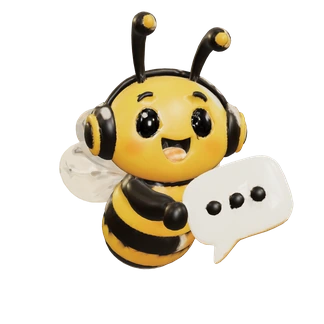
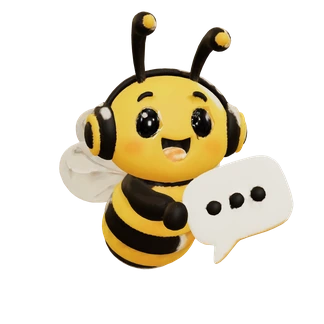
Buzz bee: no more blotches (head/antenna paint highlights were drawn as glass wings), clay-matte materials per the brief, softer normal map, tooltip 14px clear of the bee and behind it, stills rebuilt

diff --git a/buzz-bee3d.js b/buzz-bee3d.js
@@ -21,34 +21,34 @@ const CLAY_TEXTURE = '/buzz-bee-clay.webp?v=3';       // the original model's co
 export const BEE_LOOK = {
   render: {
     toneMapping: 'ACESFilmic',              // 'ACESFilmic' | 'AgX' | 'Neutral' | 'None'
-    exposure: 0.98,                         // ACES darkens and shifts colour a little: this, the light, and each material's mapGlow keep the bee's colours as they were
+    exposure: 0.9,                         // ACES darkens and shifts colour a little: this, the light, and each material's mapGlow keep the bee's colours as they were
     environment: 'studio',                  // the soft studio room that ships with three.js (RoomEnvironment), blurred like a studio HDRI
     environmentBlur: 0.04,
     environmentIntensity: 0.3,
-    anisotropy: 'max',                      // 'max' or a number: keeps the texture sharp when the bee turns
+    anisotropy: 8,                      // 'max' or a number: keeps the texture sharp when the bee turns
     keyLight: {color: 0xfff1d6, intensity: 1.0, position: [1.6, 2.4, 2.6]},
     rimLight: {color: 0xffe3a8, intensity: 0.45, position: [-2.2, 1.2, -2]},
     fill: {sky: 0xfffaf0, ground: 0xffdca0, intensity: 0.68},
-    normalScale: 0.6,
+    normalScale: 0.25,                      // a gentle bump only: a strong normal map speckled the antennae and headphones
   },
   fallback: {roughness: 0.78, clearcoat: 0, sheen: 0.6, transmission: 0},     // the matte clay look used only if bee_hq.glb cannot load and the original model is shown
   materials: {
     body: {                                  // head, headphones, body, arms, stripes, antennae
-      roughness: 0.35, metalness: 0, clearcoat: 1, clearcoatRoughness: 0.45,
-      sheen: 0.12, sheenRoughness: 0.5, sheenColor: 0xffc23a, envMapIntensity: 0.6, mapGlow: 0.3,
+      roughness: 0.62, metalness: 0, clearcoat: 0.15, clearcoatRoughness: 0.5,
+      sheen: 0.1, sheenRoughness: 0.55, sheenColor: 0xffc23a, envMapIntensity: 0.3, mapGlow: 0.42,
     },
     eyes: {                                  // glossy black with crisp white highlights
       roughness: 0.12, metalness: 0, clearcoat: 1, clearcoatRoughness: 0.03,
-      specularIntensity: 1, envMapIntensity: 1.2, mapGlow: 0,
+      specularIntensity: 1, envMapIntensity: 0.8, mapGlow: 0,
     },
     wings: {                                 // see-through, a little thick, glassy
-      roughness: 0.22, metalness: 0, clearcoat: 0.6, clearcoatRoughness: 0.15,
-      transmission: 0.55, thickness: 0.18, ior: 1.4, attenuationColor: 0xfff4dc, attenuationDistance: 0.6,
-      sheen: 0.05, sheenColor: 0xffffff, sheenRoughness: 0.4, envMapIntensity: 1.0, mapGlow: 0.25, doubleSided: true,
+      roughness: 0.4, metalness: 0, clearcoat: 0.2, clearcoatRoughness: 0.4,
+      transmission: 0.4, thickness: 0.18, ior: 1.4, attenuationColor: 0xfff4dc, attenuationDistance: 0.6,
+      sheen: 0.05, sheenColor: 0xffffff, sheenRoughness: 0.4, envMapIntensity: 0.3, mapGlow: 0.2, doubleSided: true,
     },
     bubble: {                                // soft glossy white
-      roughness: 0.3, metalness: 0, clearcoat: 0.45, clearcoatRoughness: 0.2,
-      sheen: 0.1, sheenRoughness: 0.5, sheenColor: 0xffffff, envMapIntensity: 0.45, mapGlow: 0.62,   // mapGlow: how much of the picture's own colour is added back as light, so ACES and the gloss do not wash it out
+      roughness: 0.6, metalness: 0, clearcoat: 0.1, clearcoatRoughness: 0.5,
+      sheen: 0.1, sheenRoughness: 0.5, sheenColor: 0xffffff, envMapIntensity: 0.3, mapGlow: 0.7,   // mapGlow: how much of the picture's own colour is added back as light, so ACES and the gloss do not wash it out
     },
   },
 };
@@ -269,6 +269,8 @@ export async function createBee(canvas, {reducedMotion = false, exact = false, p
         idle: rest,
         wave: {...rest, hover: true, grow: 1.08, lookX: 0.4, lookY: -0.2, smoothX: 0.4, smoothY: -0.2, wave: 0.13 - 0.016 / 0.95},
         typing: {...rest, grow: 1, lookX: 0.3, lookY: 0.3, smoothX: 0.3, smoothY: 0.3},
+        side: {...rest, smoothX: 2.85},          // QA only: the bee turned three-quarters away, to check the back and the wings for blotches
+        back: {...rest, smoothX: 5.7},
       };
       Object.assign(state, poses[kind] || rest);
       resize();

diff --git a/buzz-chat.js b/buzz-chat.js
@@ -87,8 +87,8 @@
   .buzz-fab[hidden] { display: none; }
 
   /* ---- tooltip: a white clay bubble centred on the bee's face, one tail, always on screen ---- */
-  .buzz-tip { position: fixed; z-index: 81; right: calc(max(16px, env(safe-area-inset-right)) + var(--bz-fab) * .82); bottom: calc(var(--bz-lift) + max(18px, env(safe-area-inset-bottom)) + var(--bz-fab) * .59);
-    translate: 0 50%; width: max-content; max-width: calc(100vw - 120px); box-sizing: border-box; padding: 12px 18px; border-radius: 22px; background: var(--bz-white); color: var(--bz-ink);
+  .buzz-tip { position: fixed; z-index: 79; right: calc(max(16px, env(safe-area-inset-right)) + var(--bz-fab) * .76 + 22px); bottom: calc(var(--bz-lift) + max(18px, env(safe-area-inset-bottom)) + var(--bz-fab) * .59);
+    translate: 0 50%; width: max-content; max-width: calc(100vw - max(16px, env(safe-area-inset-right)) - var(--bz-fab) * .76 - 22px - 16px); box-sizing: border-box; padding: 12px 18px; border-radius: 22px; background: var(--bz-white); color: var(--bz-ink);
     font: 700 15px/1.2 Manrope, system-ui, sans-serif; text-align: center; pointer-events: none;
     box-shadow: 0 10px 22px rgba(185,131,26,.22), inset 3px 3px 6px rgba(255,255,255,.95), inset -3px -4px 8px rgba(185,131,26,.10);
     opacity: 0; transform: translateX(10px) scale(.9); transform-origin: right center; transition: opacity .15s ease, transform .22s cubic-bezier(.34,1.56,.64,1); }
@@ -236,8 +236,8 @@
 
   const root = el('div', {className: 'buzz-root'});
   // The still bee pictures (idle, wave, typing): one transparent picture per pose, each made at 108, 216 and 324 px (1x, 2x, 3x), all the same canvas.
-  const picture = (kind, className, size) => el('img', {className, alt: '', width: size, height: size, decoding: 'async', src: `/buzz-bee-${kind}-1x.webp?v=5`,
-    srcset: `/buzz-bee-${kind}-1x.webp?v=5 1x, /buzz-bee-${kind}-2x.webp?v=5 2x, /buzz-bee-${kind}-3x.webp?v=5 3x`});
+  const picture = (kind, className, size) => el('img', {className, alt: '', width: size, height: size, decoding: 'async', src: `/buzz-bee-${kind}-1x.webp?v=6`,
+    srcset: `/buzz-bee-${kind}-1x.webp?v=6 1x, /buzz-bee-${kind}-2x.webp?v=6 2x, /buzz-bee-${kind}-3x.webp?v=6 3x`});
   const canvas = el('canvas', {className: 'buzz-canvas', 'aria-hidden': 'true'});
   const fab = el('button', {type: 'button', className: 'buzz-fab', 'aria-label': 'Chat with Buzz, PrintBee support', 'aria-haspopup': 'dialog', 'aria-expanded': 'false',
     'aria-describedby': 'buzz-tip'},
@@ -515,7 +515,7 @@
     const link = navigator.connection;
     if (link && (link.saveData || /(^|-)2g$/.test(link.effectiveType || ''))) { fab.dataset.state = 'fallback'; introTip(); return; }
     const giveUp = setTimeout(() => { if (fab.dataset.state === 'loading') { fab.dataset.state = 'fallback'; introTip(); } }, 7000);
-    import('/buzz-bee3d.js?v=14')
+    import('/buzz-bee3d.js?v=15')
       .then(module => module.createBee(canvas, {reducedMotion: REDUCED, scale: 0.86, onFrame: lift => fab.style.setProperty('--lift', lift.toFixed(3))}))
       .then(created => {
         clearTimeout(giveUp);

diff --git a/navigation.html b/navigation.html
@@ -19,7 +19,7 @@ if (window.parent === window && matchMedia('(min-width: 701px)').matches) {
 <link rel="stylesheet" href="/hive-theme.css?v=soft-focus">
 <link rel="stylesheet" href="/customer-theme.css?v=how-dark">
 <script src="/hive-theme.js?v=sun-moon"></script>
-<script src="/buzz-chat.js?v=18" defer></script>
+<script src="/buzz-chat.js?v=19" defer></script>
 </head>
 <body class="nav-app customer-theme">
 <main id="tab-screens" class="tab-screens"></main>

diff --git a/orders.html b/orders.html
@@ -23,7 +23,7 @@
 <link rel="stylesheet" href="/customer-theme.css?v=orders-clay">
 <script src="/hive-theme.js?v=sun-moon"></script>
 <script src="/support-bell.js?v=2" defer></script>
-<script src="/buzz-chat.js?v=18" defer></script>
+<script src="/buzz-chat.js?v=19" defer></script>
 </head>
 <body class="customer-theme">
 <a href="#main" class="skip">Skip to content</a>

diff --git a/terms.html b/terms.html
@@ -11,7 +11,7 @@
 <link rel="stylesheet" href="/customer-theme.css?v=how-dark-3">
 <script src="/hive-theme.js?v=sun-moon"></script>
 <script src="/support-bell.js?v=2" defer></script>
-<script src="/buzz-chat.js?v=18" defer></script>
+<script src="/buzz-chat.js?v=19" defer></script>
 </head>
 <body class="customer-theme">
 <a href="#main" class="skip">Skip to content</a>

diff --git a/address.html b/address.html
@@ -21,7 +21,7 @@
 <link rel="stylesheet" href="/customer-theme.css?v=how-dark">
 <script src="/hive-theme.js?v=sun-moon"></script>
 <script src="/support-bell.js?v=2" defer></script>
-<script src="/buzz-chat.js?v=18" defer></script>
+<script src="/buzz-chat.js?v=19" defer></script>
 </head>
 <body class="customer-theme">
 <a href="#main" class="skip">Skip to content</a>

diff --git a/cart.html b/cart.html
@@ -24,7 +24,7 @@
 <link rel="stylesheet" href="/customer-theme.css?v=how-dark">
 <script src="/hive-theme.js?v=sun-moon"></script>
 <script src="/support-bell.js?v=2" defer></script>
-<script src="/buzz-chat.js?v=18" defer></script>
+<script src="/buzz-chat.js?v=19" defer></script>
 </head>
 <body class="customer-theme">
 <a href="#main" class="skip">Skip to content</a>

diff --git a/index.html b/index.html
@@ -20,7 +20,7 @@
 <link rel="stylesheet" href="/customer-theme.css?v=how-dark">
 <script src="/hive-theme.js?v=sun-moon"></script>
 <script src="/support-bell.js?v=2" defer></script>
-<script src="/buzz-chat.js?v=18" defer></script>
+<script src="/buzz-chat.js?v=19" defer></script>
 </head>
 <body class="customer-theme">
 <a href="#main" class="skip">Skip to content</a>

diff --git a/pricing.html b/pricing.html
@@ -20,7 +20,7 @@
 <link rel="stylesheet" href="/customer-theme.css?v=how-dark">
 <script src="/hive-theme.js?v=sun-moon"></script>
 <script src="/support-bell.js?v=2" defer></script>
-<script src="/buzz-chat.js?v=18" defer></script>
+<script src="/buzz-chat.js?v=19" defer></script>
 </head>
 <body class="customer-theme">
 <a href="#main" class="skip">Skip to content</a>

diff --git a/profile.html b/profile.html
@@ -21,7 +21,7 @@
 <link rel="stylesheet" href="/customer-theme.css?v=how-dark">
 <script src="/hive-theme.js?v=sun-moon"></script>
 <script src="/support-bell.js?v=2" defer></script>
-<script src="/buzz-chat.js?v=18" defer></script>
+<script src="/buzz-chat.js?v=19" defer></script>
 </head>
 <body class="customer-theme">
 <a href="#main" class="skip">Skip to content</a>

diff --git a/queue.html b/queue.html
@@ -24,7 +24,7 @@
 <link rel="stylesheet" href="/customer-theme.css?v=how-dark">
 <script src="/hive-theme.js?v=sun-moon"></script>
 <script src="/support-bell.js?v=2" defer></script>
-<script src="/buzz-chat.js?v=18" defer></script>
+<script src="/buzz-chat.js?v=19" defer></script>
 </head>
 <body class="customer-theme">
 <a href="#main" class="skip">Skip to content</a>

diff --git a/help.html b/help.html
@@ -18,7 +18,7 @@
 <script src="/hive-theme.js?v=sun-moon"></script>
 <script src="/help.js?v=2" defer></script>
 <script src="/support-bell.js?v=2" defer></script>
-<script src="/buzz-chat.js?v=18" defer></script>
+<script src="/buzz-chat.js?v=19" defer></script>
 </head>
 <body class="customer-theme help-body">
 <a href="#help-app" class="skip">Skip to content</a>
